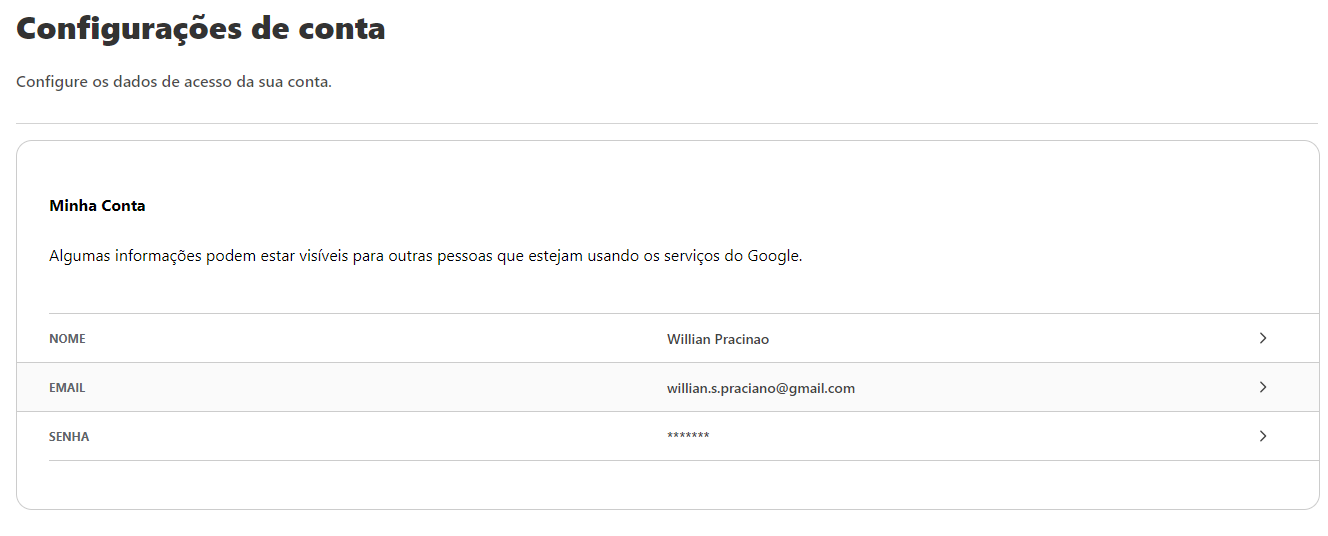
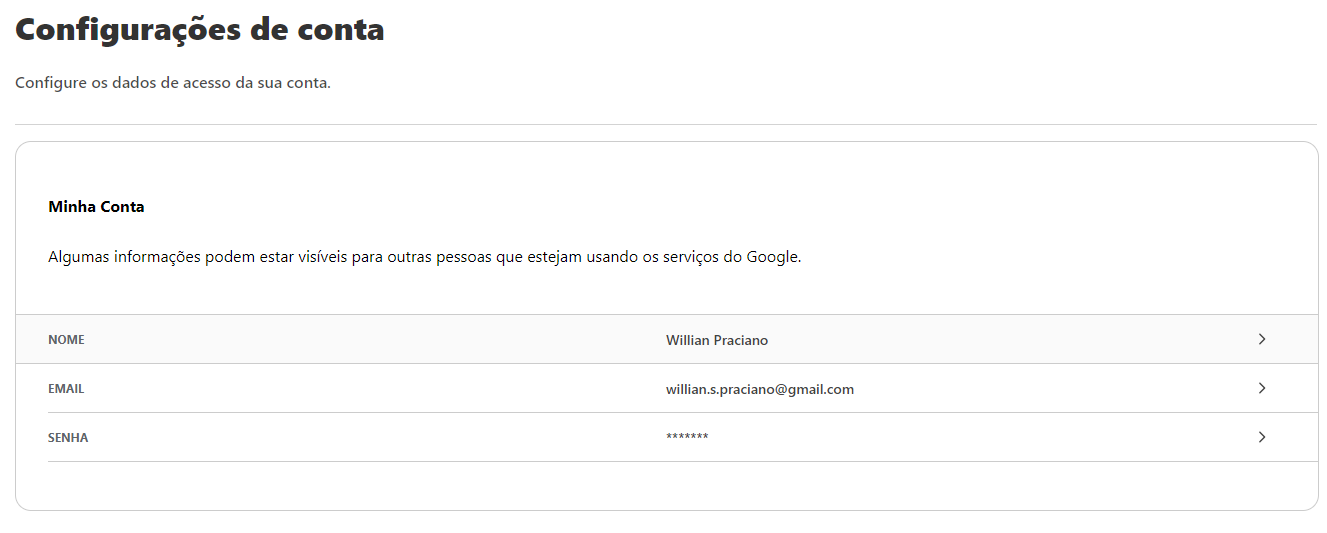
fix: changing image in README.md

diff --git a/src/components/UserSettings/index.js b/src/components/UserSettings/index.js
@@ -22,7 +22,7 @@ function UserSettings(props) {
         </div>
         <div className="button">
           <h5>NOME</h5>
-          <p>Willian Pracinao</p>
+          <p>Willian Praciano</p>
           <ArrowForwardIosRoundedIcon />
         </div>
         <div className="button">

diff --git a/README.md b/README.md
@@ -2,7 +2,7 @@
 This is a simple project cloning the Google account settings screen.
 
 <p align="left">
-  <img alt="Frontend" src="public/print.png" width="60%">
+  <img alt="Frontend" src="public/print.png" width="80%">
 </p>
 
 # Getting Started with Create React App
